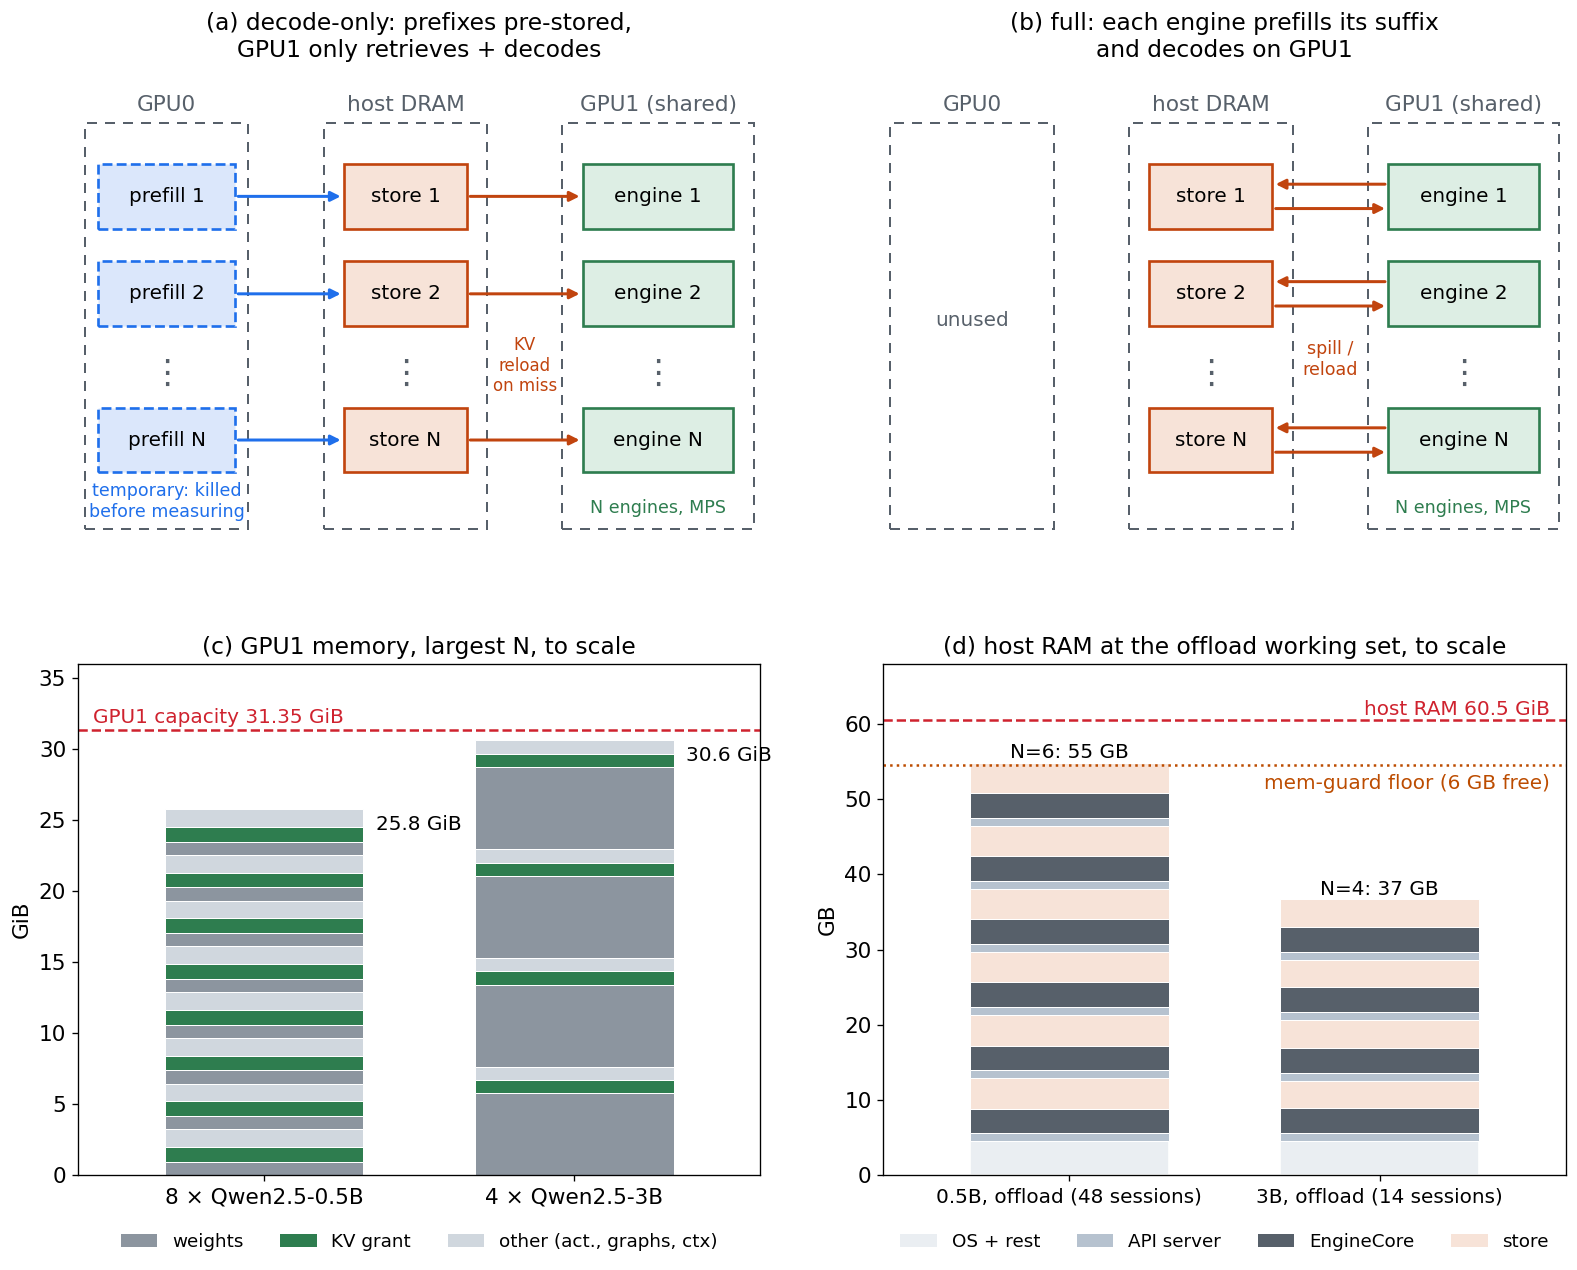
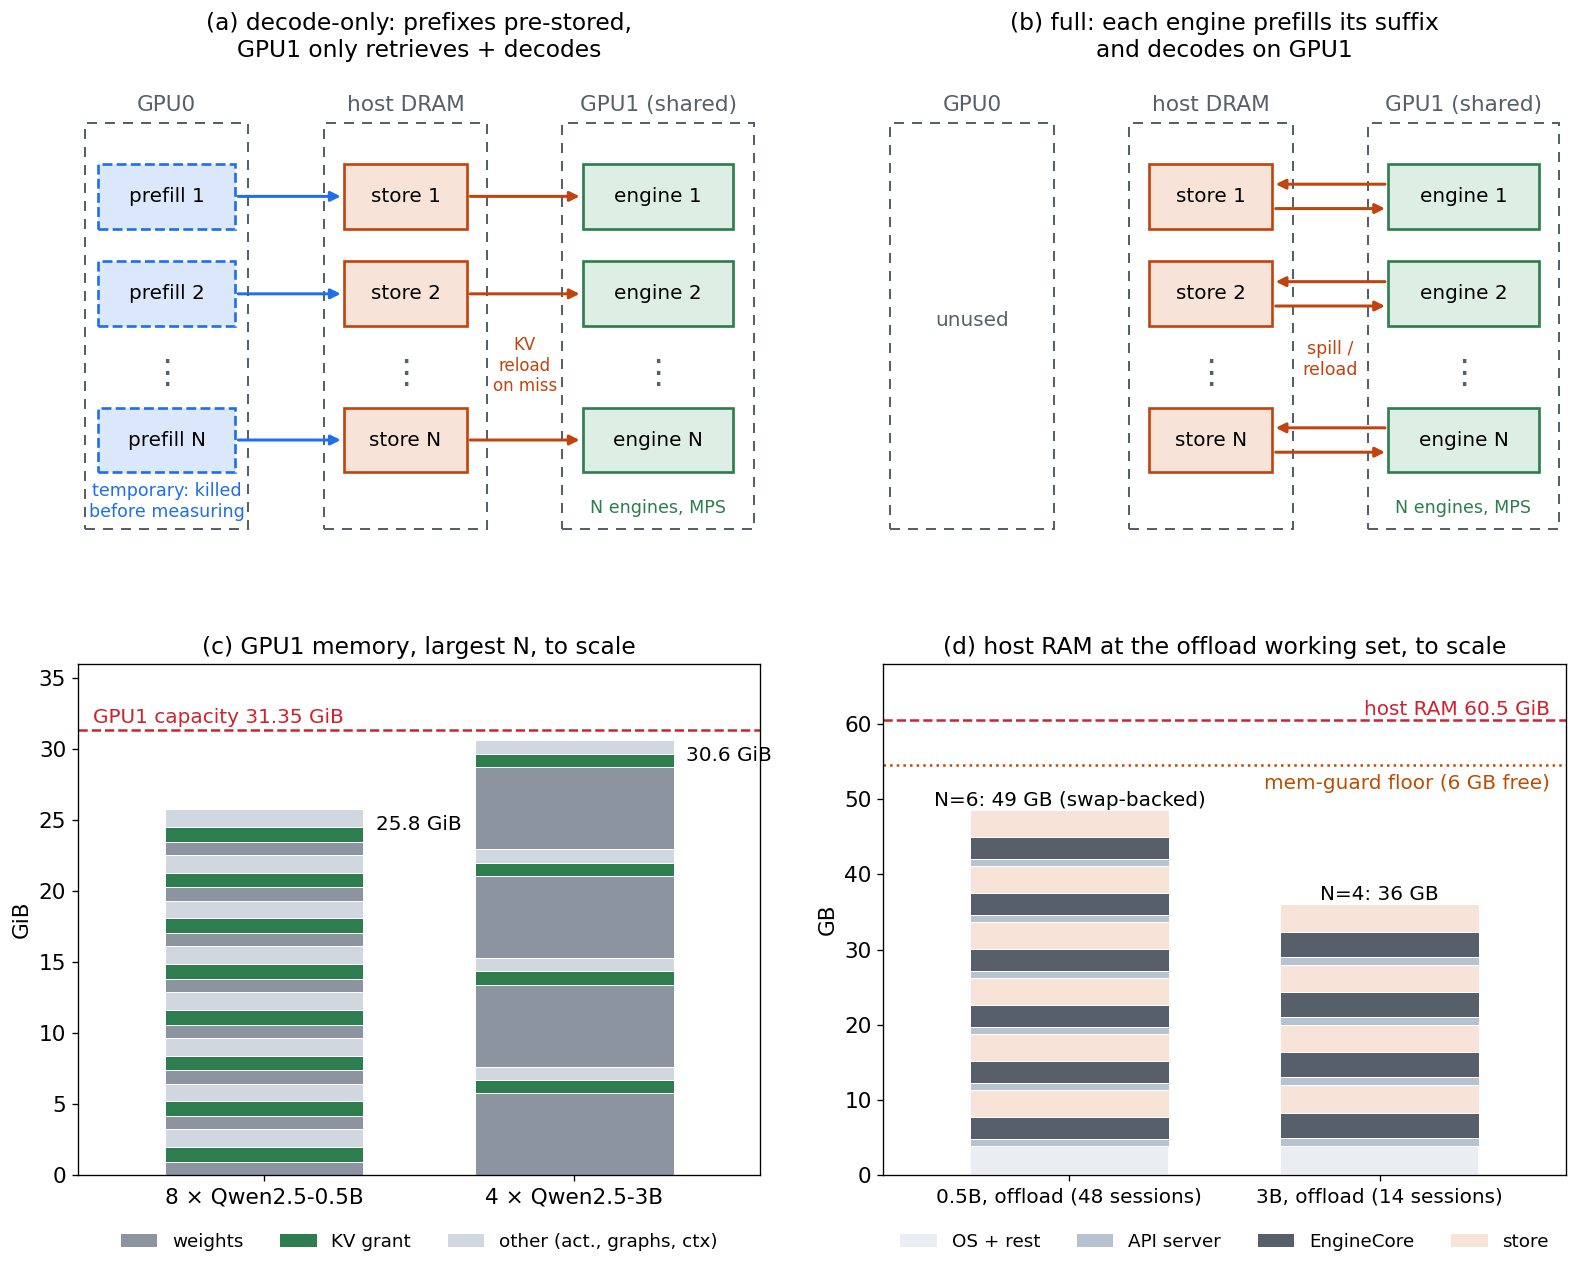
inf_multi_coloc: report 5 (what binds first) drafted; layout panel (d) from measured RSS

Changed region(s): [[0.5904, 0.5835, 0.7768, 0.9213], [0.8079, 0.6756, 0.9321, 0.9213]]

diff --git a/scripts/plots/plot_mc_layout.py b/scripts/plots/plot_mc_layout.py
@@ -35,11 +35,15 @@ GPU_GIB = 31.35
 # measured: weights (engine log), KV grant (engine log), per-model fb (DCGM, N=1 run)
 VRAM = {"small": dict(n=8, w=0.93, kv=1.04, per=3.22, label="8 × Qwen2.5-0.5B"),
         "medium": dict(n=4, w=5.76, kv=0.94, per=7.65, label="4 × Qwen2.5-3B")}
-# measured RSS (GB) per model at the offload working set: API server, EngineCore
-# (incl. 1 GiB pinned LMCache L1), store process (working set + ~0.65 GB overhead)
-HOST = {"small": dict(api=1.08, ec=3.27, store=4.04, label="0.5B, offload (48 sessions)"),
-        "medium": dict(api=1.08, ec=3.31, store=3.65, label="3B, offload (14 sessions)")}
-HOST_GIB, OS_GB, FLOOR_GB = 60.5, 4.5, 6.0
+# measured RSS (GB) per model at the largest offload run (launch RSS totals / N):
+# small N=6 (mc_small_n6_mps_omp4: API 5.76, EngineCore 16.95, stores 21.91 GB),
+# medium N=4 (mc_medium_n4_mps: 4.31 / 13.25 / 14.57 GB). EngineCore includes the 1 GiB
+# pinned LMCache L1; the store holds the working set (+ ~0.65 GB process overhead).
+HOST = {"small": dict(api=0.96, ec=2.83, store=3.65, label="0.5B, offload (48 sessions)",
+                      note="swap-backed"),
+        "medium": dict(api=1.08, ec=3.31, store=3.64, label="3B, offload (14 sessions)",
+                       note="")}
+HOST_GIB, OS_GB, FLOOR_GB = 60.5, 3.9, 6.0   # OS = 'used' at idle (measured 02:02)
 
 
 def box(ax, x, y, w, h, txt, fc, ec, fs=12, ls="-"):
@@ -124,7 +128,8 @@ def host(ax, ceilings):
                 ax.add_patch(Rectangle((j - 0.32, y), 0.64, v, facecolor=c,
                                        edgecolor="white", lw=0.6))
                 y += v
-        ax.text(j, y + 0.6, f"N={n}: {y:.0f} GB", ha="center", fontsize=12)
+        ax.text(j, y + 0.6, f"N={n}: {y:.0f} GB" + (f" ({h['note']})" if h["note"] else ""),
+                ha="center", fontsize=12)
     ax.axhline(HOST_GIB, color="#cf222e", ls="--", lw=1.5)
     ax.axhline(HOST_GIB - FLOOR_GB, color="#bc4c00", ls=":", lw=1.5)
     ax.text(1.55, HOST_GIB + 0.7, "host RAM 60.5 GiB", ha="right", color="#cf222e",

diff --git a/reports/report_colocation_multi.md b/reports/report_colocation_multi.md
@@ -403,8 +403,50 @@ histogram deltas), summed over the N engines:
 
 ## 5. What binds first
 
-<!-- TODO: VRAM / host RAM / host CPU / GPU compute ceilings per cohort, incl. small
-offload N=5,6 with the cap (RAM ceiling) -->
+![placement and memory to scale](../figures/mc_layout.png)
+
+*(a)/(b) where each config's processes live and how KV moves; (c) GPU1 memory at the
+largest N per cohort, to scale (weights / KV grant / other); (d) host RAM at the largest
+offload N, to scale, from the measured RSS of the experiment's processes. RSS excludes
+pages already swapped out and the kernel's page cache: at small N=6 the bar reads 49 GB,
+but the box had already pushed ~4.8 GB to swap — the bar understates the pressure, it is
+not headroom.*
+
+Five resources could stop colocation. At the largest N each cohort reached (thread cap
+on; stock threads noted where they differ):
+
+| resource | small · fits (N=8) | small · offload (N=6) | medium · fits (N=4) | medium · offload (N=4) |
+|---|---|---|---|---|
+| GPU1 compute (SM-active) | **0.86 — knee N≈6–8** | 0.73 | **0.92 — knee N≈2–3** | 0.87 |
+| GPU1 HBM bandwidth (DRAM-active) | 0.64 | 0.54 | **0.82** | 0.77 |
+| GPU1 memory | 25.7 / 31.35 GiB | 19.3 | **30.4 — no 5th model** | **30.4** |
+| host RAM | 22.7 GB available | **16.7 GB avail., 29k pages swapped in — practical ceiling** | 29.3 GB available | 28.6 GB available |
+| host CPU (capped) | 20% | 16% | 13% | 17% |
+| host CPU (**stock** threads) | **storm in 2 of 4 runs** | **collapse at N=4** | — | **collapse at N=4** |
+| what binds first | GPU compute | host RAM | GPU compute ≈ VRAM | KV-load queueing, then VRAM |
+
+**Observations:**
+
+- **With stock settings the first thing to break is host CPU threads, in every cohort.**
+  It needs no GPU pressure at all: the small cohort's offload collapses at N=4 with
+  GPU1 half idle. Nothing else on this list fails that early or that hard.
+
+- **With the thread cap, the binding resource depends on the model and working set.**
+  Small resident models run out of **GPU compute** (SM-active plateaus at N≈6–8 with
+  VRAM and RAM to spare). Small offloaded models run out of **host RAM** (swap-backed at
+  N=6, GPU at 0.73). Medium models run out of **GPU compute, HBM bandwidth and VRAM
+  together** at N=4 — a fifth 3B does not fit, and two already push SM-active to 0.80.
+
+- **Medium offload hits a fourth limit before any of those: KV-load queueing.** Its
+  decode-only queue wait grows 82 ms → 4.7 s from N=1 to N=4 while GPU, VRAM and RAM all
+  still have headroom (§4.2).
+
+- **Host RAM is the offload ceiling, not the fits ceiling.** Resident cells add ~5 GB of
+  host RAM per model (API server + EngineCore incl. the 1 GiB pinned LMCache L1 + an
+  idle store); offload adds the working set in the store (3.4 GiB small, 3.0 GiB medium).
+  On this 60 GiB box that caps small offload at N≈6.
+
+<!-- capacity (E4) paragraph goes here -->
 
 ---
 
